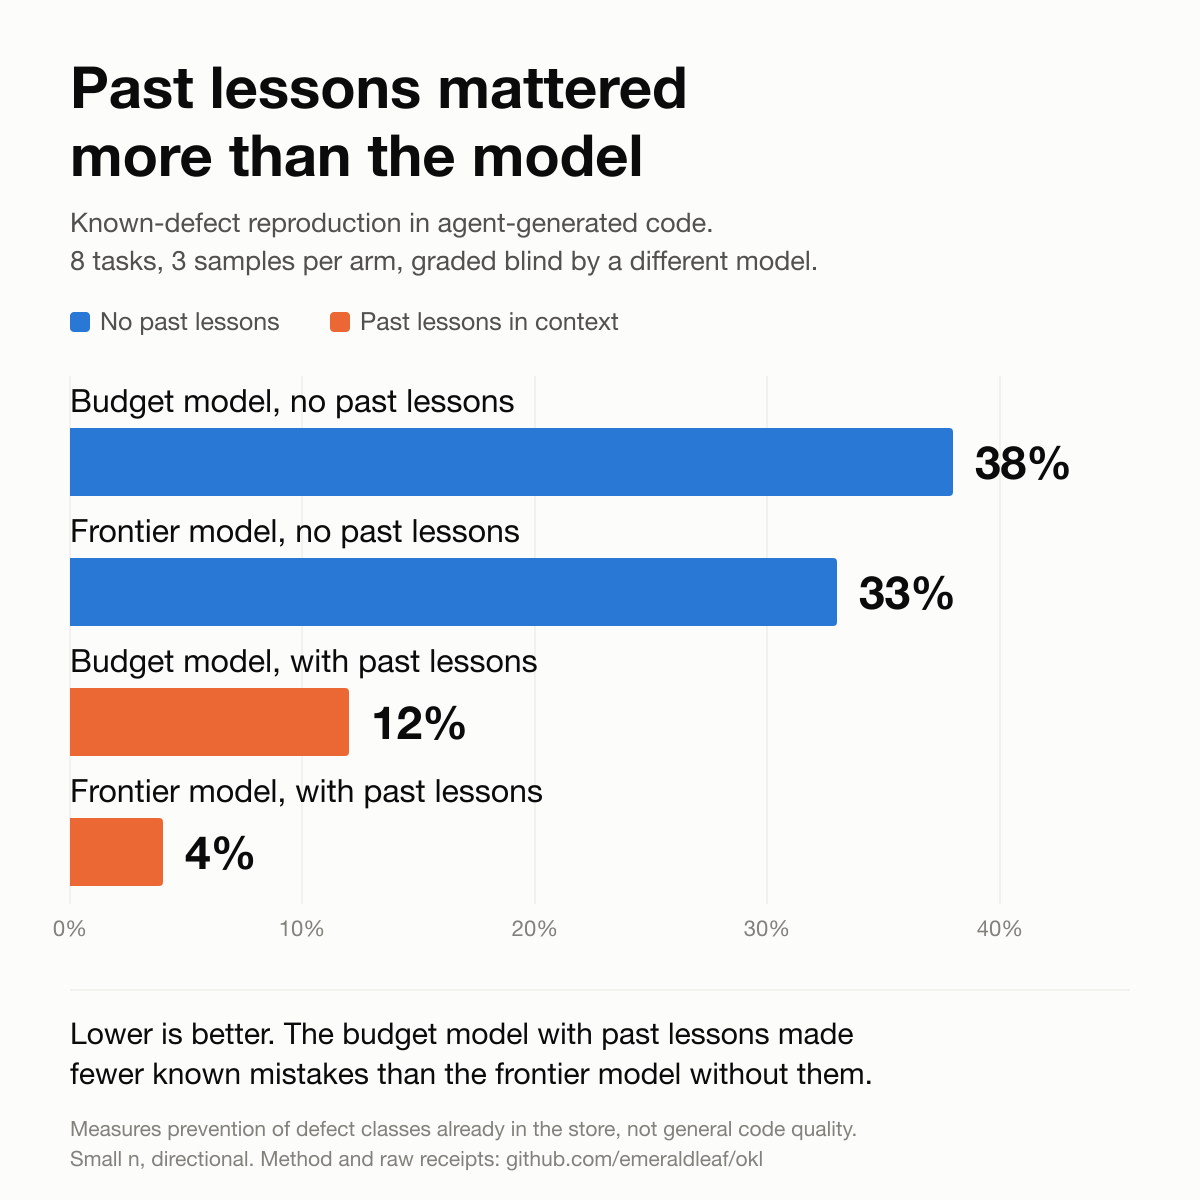
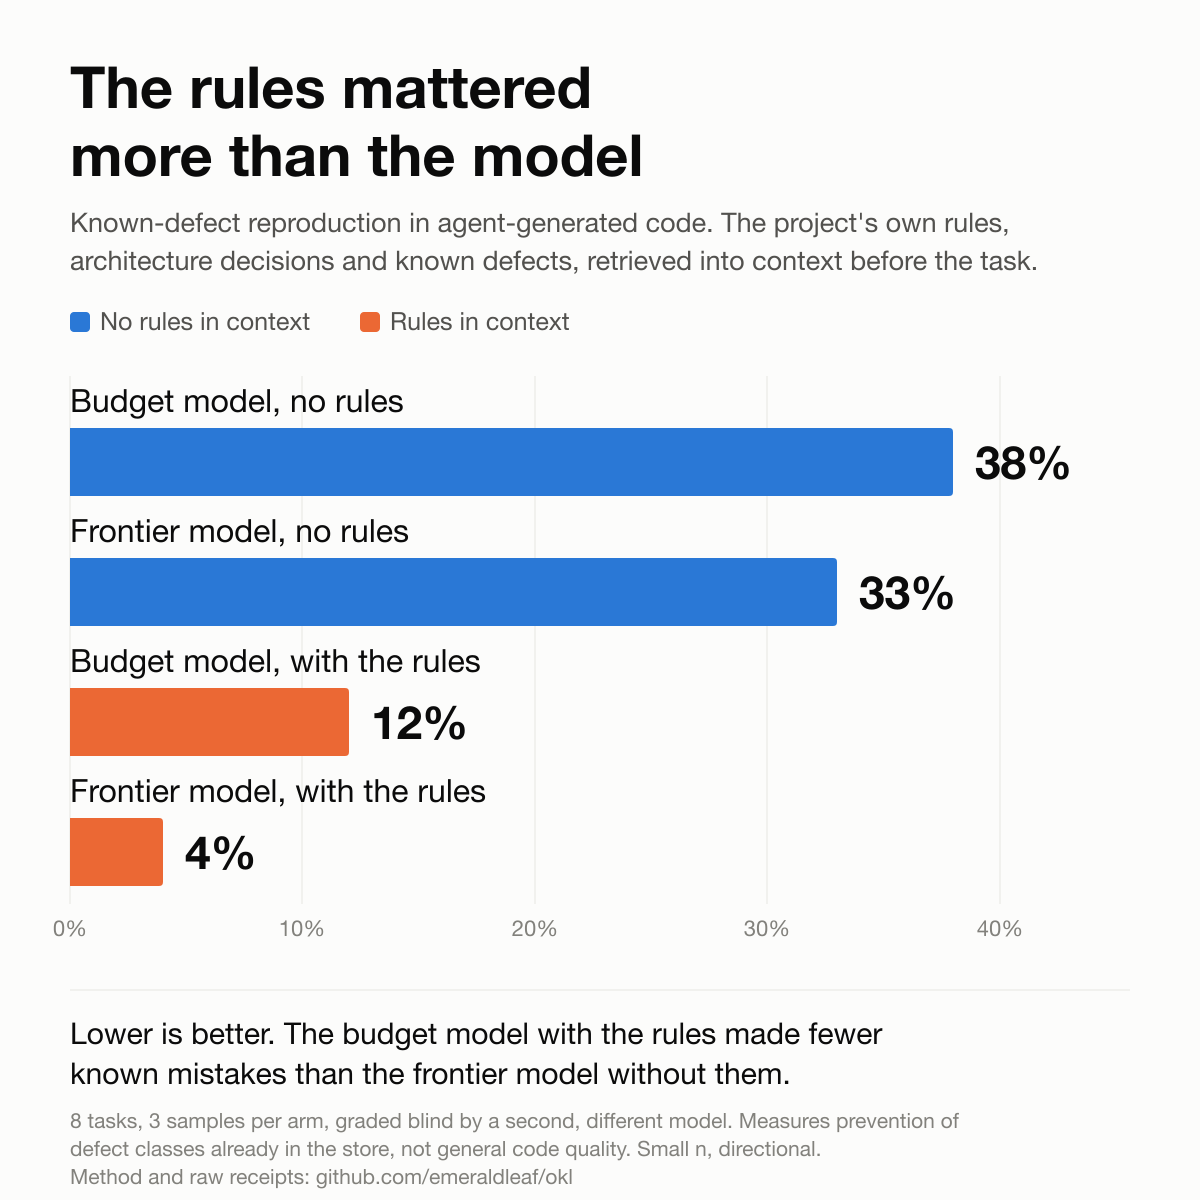
Say what the store holds: rules, architecture decisions, known defects
'Lessons' undersold the content and read as retrospective. The essays and
the chart now name the real thing. The tool keeps 'lesson' internally where
a Defect node genuinely is one.

diff --git a/docs/posts/01-memory-that-outlives-the-run.md b/docs/posts/01-memory-that-outlives-the-run.md
@@ -14,7 +14,7 @@ Two findings.
 
 First, several rules I had documented as enforcement were enforcement in name only. In one repo an architecture-review agent was described across six documents as a live review surface; nothing in CI or in any hook actually invoked it. Every one of those documents was accurate about the design and wrong about the system. Writing a rule down and running it are different acts, and only one of them changes what ships.
 
-Second, and worse: the three repos had independently derived the same lessons. Each had paid separately for knowledge the others already had. My standards existed, they were even written down, and they still could not cross a repository boundary. I had been thinking of my setup as "two readers, one canon": a human reads the rules, an agent reads the rules, and the two must not drift. What I actually had was N readers and N canons.
+Second, and worse: the three repos had independently derived the same rules. Each had paid separately for knowledge the others already had. My standards existed, they were even written down, and they still could not cross a repository boundary. I had been thinking of my setup as "two readers, one canon": a human reads the rules, an agent reads the rules, and the two must not drift. What I actually had was N readers and N canons.
 
 ## The fix is a layer, not a bigger prompt
 
@@ -24,11 +24,11 @@ So the design question became: where does each piece of knowledge belong? Three 
 
 **Does a session doing a completely unrelated task still need this?** Then it belongs in the always-on instructions. Almost nothing passes. Naming conventions, the security posture, the error-handling canon. This is the most expensive real estate in the system and the size budget is what keeps it honest.
 
-**Would I want this in front of me whenever a future task resembles it?** Then it belongs in a retrievable store. This is the large category: the rate-limiter lesson that matters enormously to the three tasks a year touching rate limiting, and is noise for everything else.
+**Would I want this in front of me whenever a future task resembles it?** Then it belongs in a retrievable store. This is the large category: the rate-limiter rule that matters enormously to the three tasks a year touching rate limiting, and is noise for everything else.
 
 **Does it stop mattering once the PR merges?** Then it stays with the task. The subtle part is extraction, because a dead plan usually contains one durable decision worth pulling out before the rest is discarded.
 
-The middle tier is the part I had to build: a small typed store of lessons. Defects with symptom, cause, and fix. Rules. Deliberate decisions, recorded so they are not silently reversed. Tombstones for identifiers that must never come back. Retractions for claims that turned out to be false. Every note carries a scope, because org-wide standards should propagate to every project while one repo's quirks should stay home. Choosing that scope is a judgment call and it is the curation step that keeps a shared layer from filling with noise.
+The middle tier is the part I had to build: a small typed store of what the projects already know. Defects with symptom, cause, and fix. Rules. Deliberate decisions, recorded so they are not silently reversed. Tombstones for identifiers that must never come back. Retractions for claims that turned out to be false. Every note carries a scope, because org-wide standards should propagate to every project while one repo's quirks should stay home. Choosing that scope is a judgment call and it is the curation step that keeps a shared layer from filling with noise.
 
 ## Retrieved, not loaded
 
@@ -40,19 +40,19 @@ Each run sees a dozen relevant lines rather than the whole library. At ten times
 
 A tool that feels helpful and a tool that is helpful are different claims, so I built an A/B harness and committed the results.
 
-Eight tasks, each written to invite a specific defect class the store already covers. The same model in both arms, the retrieved lessons as the only variable. A second, different model grading blind, never told which arm produced the code. Failure counts printed before any score, because a metric that cannot report its own failure rate is not a metric.
+Eight tasks, each written to invite a specific defect class the store already covers. The same model in both arms, the retrieved rules as the only variable. A second, different model grading blind, never told which arm produced the code. Failure counts printed before any score, because a metric that cannot report its own failure rate is not a metric.
 
-With no lessons in context, the agent reproduced a known defect class in 33 percent of runs. With them, 4 percent. On the tasks the baseline actually failed, runs with the lessons reproduced the defect in 1 of 15. One task, an unpinned linter version in CI, failed three times out of three without the lessons and never with them.
+With none of the rules in context, the agent reproduced a known defect class in 33 percent of runs. With them, 4 percent. On the tasks the baseline actually failed, runs with the rules in context reproduced the defect in 1 of 15. One task, an unpinned linter version in CI, failed three times out of three without the rules and never with them.
 
-The result I did not expect: a budget model with the lessons in context made roughly a third the known mistakes of a frontier model without them on identical tasks. Context bought more than the model upgrade did, which is the more useful number if you are routing work between cheap and expensive models.
+The result I did not expect: a budget model with the rules in context made roughly a third the known mistakes of a frontier model without them on identical tasks. Context bought more than the model upgrade did, which is the more useful number if you are routing work between cheap and expensive models.
 
 ## The limits, stated
 
-Those tasks were authored from my own lesson corpus, so the experiment measures known-lesson prevention rather than general code quality. Small n. Directional, not a benchmark. The full method and every receipt are in the repository, including the runs that went the other way.
+Those tasks were authored from rules already in my own store, so the experiment measures prevention of defect classes the store covers rather than general code quality. Small n. Directional, not a benchmark. The full method and every receipt are in the repository, including the runs that went the other way.
 
-The system also found its own first defect: an early retrieval marked 28 of 33 stored notes as relevant to a single task. Ranking put the right lessons first, but nothing trimmed the tail. Subject tags and per-repo interest declarations cut it to 20; a proper relevance cutoff is still open work, recorded in the store as a defect against the store. The failure log lives inside the system it describes.
+The system also found its own first defect: an early retrieval marked 28 of 33 stored notes as relevant to a single task. Ranking put the right records first, but nothing trimmed the tail. Subject tags and per-repo interest declarations cut it to 20; a proper relevance cutoff is still open work, recorded in the store as a defect against the store. The failure log lives inside the system it describes.
 
-That is the first idea. The state in most agent-loop diagrams lives inside one execution. The compounding win is memory that outlives it: record the standard once, retrieve it into every future task that resembles it, across every project. Run N+1 should not repeat run N's mistake, and neither should the next repository.
+That is the first idea. The state in most agent-loop diagrams lives inside one execution. The compounding win is memory that outlives it: record the rule once, retrieve it into every future task that resembles it, across every project. Run N+1 should not repeat run N's mistake, and neither should the next repository.
 
 Next: the verify step, and why a step's own report of success is not evidence.
 

diff --git a/docs/posts/03-enforcement-or-good-intentions.md b/docs/posts/03-enforcement-or-good-intentions.md
@@ -12,11 +12,11 @@ I have now found the same shape in three codebases, which makes it a pattern rat
 
 In the loop from parts 1 and 2, every rule that matters is wired to something that runs without anyone deciding to run it.
 
-**The read is enforced, fail closed.** The moment a task is submitted, a hook retrieves the relevant lessons and injects them into the model's context before any work begins. If the store is unreachable, the hook blocks the task rather than proceeding, because "no lessons apply" and "I could not reach the lessons" look identical from the outside and only one of them is safe. Silence is never reported as safety. There is an explicit override for working offline, explicit on purpose: proceeding without the standards should be a decision someone made, not a default they fell into.
+**The read is enforced, fail closed.** The moment a task is submitted, a hook retrieves the relevant rules and decisions and injects them into the model's context before any work begins. If the store is unreachable, the hook blocks the task rather than proceeding, because "nothing applies here" and "I could not reach the store" look identical from the outside and only one of them is safe. Silence is never reported as safety. There is an explicit override for working offline, explicit on purpose: proceeding without the standards should be a decision someone made, not a default they fell into.
 
-One detail that cost me a rebuild. The first version was wired to an event whose output the model never receives. The hook fired on every edit, retrieved exactly the right lessons, and wrote them to a channel nothing read, while every unit test passed, because those tests proved the hook ran and produced correct text. Only a behavioral test against a bare control repository exposed it: same task, same model, defect reproduced in both arms. A hook that fires is not a hook that is heard. Test the channel, not the firing.
+One detail that cost me a rebuild. The first version was wired to an event whose output the model never receives. The hook fired on every edit, retrieved exactly the right rules, and wrote them to a channel nothing read, while every unit test passed, because those tests proved the hook ran and produced correct text. Only a behavioral test against a bare control repository exposed it: same task, same model, defect reproduced in both arms. A hook that fires is not a hook that is heard. Test the channel, not the firing.
 
-**The write is prompted at the only moment it can work.** Lessons die when sessions end, so a stop hook blocks the first stop of any session that changed files and asks one question: did this session produce something worth keeping? Either the lesson is recorded with a deliberate scope and subject, or the session states that nothing durable came out of it and finishes. It fires once per session and never loops. The first session running that hook was caught by it and had to record three lessons it had fixed but never encoded. A rule that catches its own author on day one is at least running.
+**The write is prompted at the only moment it can work.** What a session learns dies with it, so a stop hook blocks the first stop of any session that changed files and asks one question: did this session produce something worth keeping? Either it is recorded with a deliberate scope and subject, or the session states that nothing durable came out of it and finishes. It fires once per session and never loops. The first session running that hook was caught by it and had to record three rules it had applied but never encoded. A rule that catches its own author on day one is at least running.
 
 **The gates run at merge time.** Retired identifiers cannot resurface. Retracted claims cannot be restated. Documentation cannot silently orphan. The instructions file cannot bloat past its budget. Each is a small script that fails CI, and none of them require anyone to remember anything.
 
@@ -26,7 +26,7 @@ Auditing my own installer turned up the same failure one layer down: it did half
 
 So the rule became: init must wire, not instruct. It registers the hooks in the agent's settings itself, idempotently, preserving whatever is already there. It installs the CI workflow instead of describing it. It registers the agent tools when the dependency exists and deliberately refuses when it does not, because a registration pointing at a missing dependency is a broken tool, which is worse than none. The only things it prints are the things it genuinely cannot do, and it says those loudly: this is not a git repository, so the drift gate is disabled until it is.
 
-Same lesson again at the environment layer. Hooks run in whatever process the agent harness spawns, which routinely lacks the PATH of the shell you developed in. A hook that works on the author's machine and silently no-ops on everyone else's is the "surface nobody runs" bug wearing an environment-variable costume. The fix is a layered resolver: an explicit override, then a path pinned at install time by the shell where the tool demonstrably works, then PATH, then module execution by any interpreter that can import the package. The enforcement hook fails closed with instructions when nothing resolves; the reminder hook silently disables, because a best-effort prompt must never brick someone's session. Degrade by role.
+The same failure again at the environment layer. Hooks run in whatever process the agent harness spawns, which routinely lacks the PATH of the shell you developed in. A hook that works on the author's machine and silently no-ops on everyone else's is the "surface nobody runs" bug wearing an environment-variable costume. The fix is a layered resolver: an explicit override, then a path pinned at install time by the shell where the tool demonstrably works, then PATH, then module execution by any interpreter that can import the package. The enforcement hook fails closed with instructions when nothing resolves; the reminder hook silently disables, because a best-effort prompt must never brick someone's session. Degrade by role.
 
 ## Where the trust boundary sits
 

diff --git a/docs/posts/02-dont-let-a-step-grade-itself.md b/docs/posts/02-dont-let-a-step-grade-itself.md
@@ -32,7 +32,7 @@ In the knowledge layer from part 1, verification is not one feature. It is four 
 
 **Rung 3: an independent actor re-runs the checks.** CI runs the drift gate and the repository's mechanical gates on every pull request: a different grader, at a different time, with no stake in the original claim. When a gate proves itself by failing against real drift, the receipt is written by the job that watched it happen, not by the gate's author.
 
-**Rung 4: time attacks every stamp.** Each rule declares the files it governs. The moment those files change after the rule was last verified, the drift detector flags it, because a stale rule is a rule nobody re-checked. Verification also decays on a clock: a stamp nobody re-earns is demoted rather than left quietly trusted. And the system is scored on an outcome it cannot flatter itself on: recurrence after arming, the count of defect classes that came back even though a catching check existed. Not "how many lessons were recorded," which measures activity, but "did the mistakes stop repeating," which measures the point.
+**Rung 4: time attacks every stamp.** Each rule declares the files it governs. The moment those files change after the rule was last verified, the drift detector flags it, because a stale rule is a rule nobody re-checked. Verification also decays on a clock: a stamp nobody re-earns is demoted rather than left quietly trusted. And the system is scored on an outcome it cannot flatter itself on: recurrence after arming, the count of defect classes that came back even though a catching check existed. Not "how many rules were recorded," which measures activity, but "did the mistakes stop repeating," which measures the point.
 
 ## Where judgment stays
 
